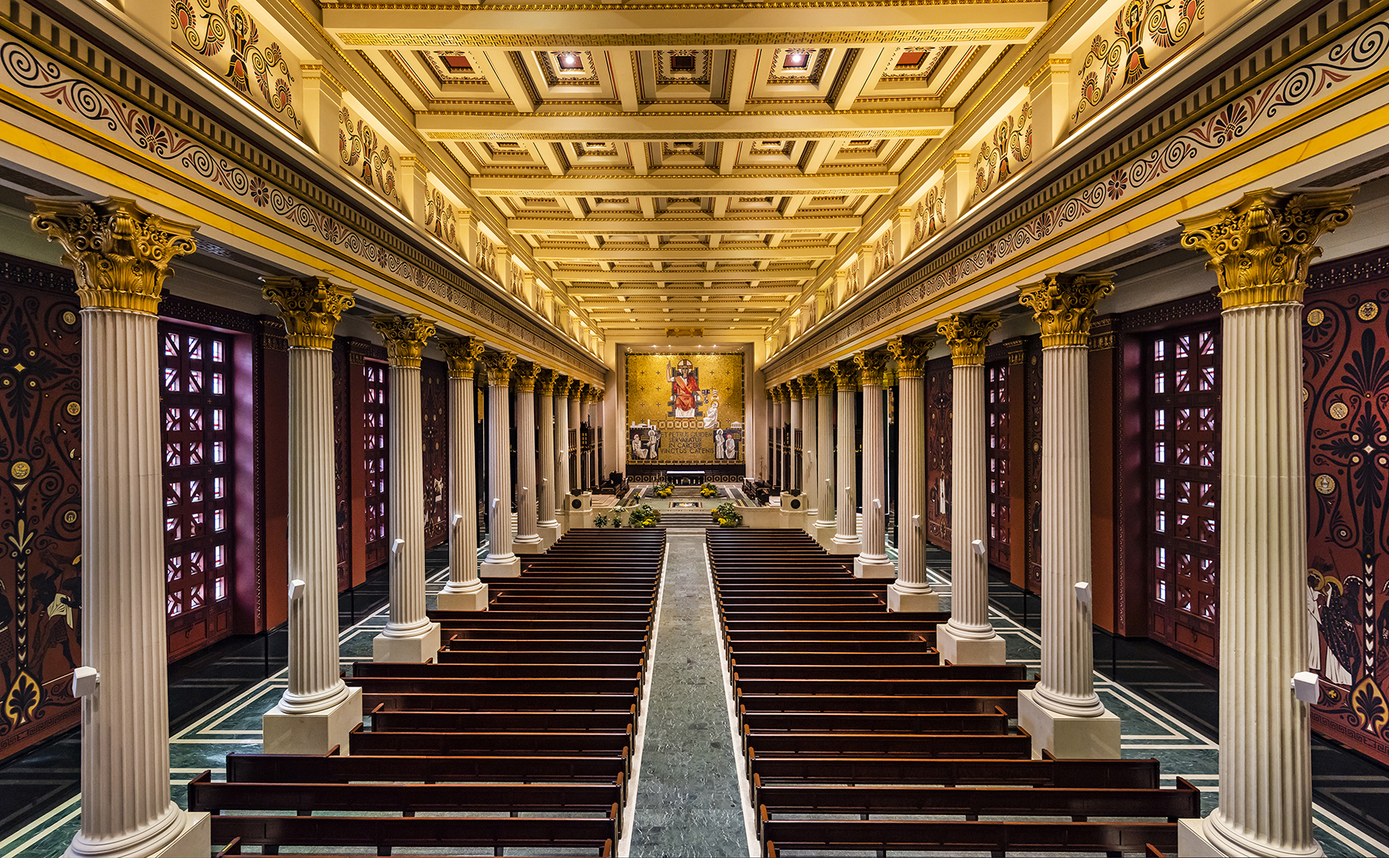
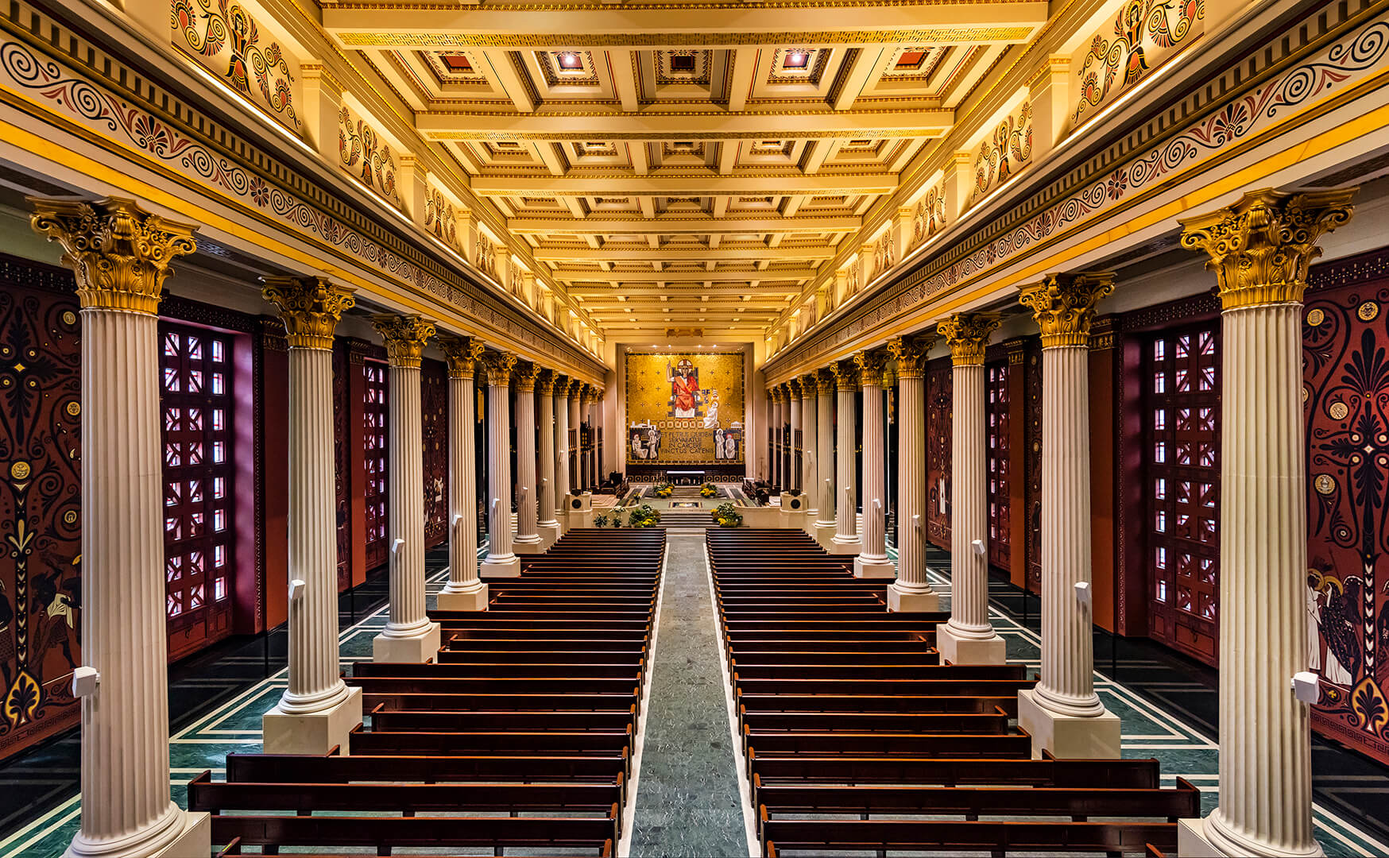
more image compression

diff --git a/index.html b/index.html
@@ -718,7 +718,7 @@ We’d love for you to take a look around to learn more about our wedding day pl
         
         <!-- FOOTER SECTION -->
             <footer>
-            	<div class="image-divider fixed-height" style="background-image:url(images/engagement_photos/Rachel&Andrew_108_wide.jpg);" data-stellar-background-ratio="0.5" >
+            	<div class="image-divider fixed-height" style="background-image:url(images/engagement_photos/rachel&andrew_108_wide_2880.jpg);" data-stellar-background-ratio="0.5" >
                 
                 	<div class="divider-overlay"></div>
                     

diff --git a/galleries/engagement-session/index.html b/galleries/engagement-session/index.html
@@ -780,7 +780,7 @@
         
         <!-- FOOTER SECTION -->
 		<footer>
-            <div class="image-divider fixed-height" style="background-image:url(../../images/engagement_photos/Rachel&Andrew_108_wide.jpg); height:400px;" data-stellar-background-ratio="0.5" >
+            <div class="image-divider fixed-height" style="background-image:url(../../images/engagement_photos/rachel&andrew_108_wide_2880.jpg); height:400px;" data-stellar-background-ratio="0.5" >
                 
                 <div class="divider-overlay" style="opacity:0.1"></div>
                     

diff --git a/galleries/proposal/index.html b/galleries/proposal/index.html
@@ -466,7 +466,7 @@
         
         <!-- FOOTER SECTION -->
 		<footer>
-            <div class="image-divider fixed-height" style="background-image:url(../../images/engagement_photos/Rachel&Andrew_108_wide.jpg); height:400px;" data-stellar-background-ratio="0.5" >
+            <div class="image-divider fixed-height" style="background-image:url(../../images/engagement_photos/rachel&andrew_108_wide_2880.jpg); height:400px;" data-stellar-background-ratio="0.5" >
                 
                 <div class="divider-overlay" style="opacity:0.1"></div>
                     

diff --git a/details/accommodations/index.html b/details/accommodations/index.html
@@ -287,7 +287,7 @@
         
         <!-- FOOTER SECTION -->
 		<footer>
-            <div class="image-divider fixed-height" style="background-image:url(../../images/engagement_photos/Rachel&Andrew_108_wide.jpg); height:400px" data-stellar-background-ratio="0.5" >
+            <div class="image-divider fixed-height" style="background-image:url(../../images/engagement_photos/rachel&andrew_108_wide_2880.jpg); height:400px" data-stellar-background-ratio="0.5" >
                 
                 <div class="divider-overlay"></div>
                     

diff --git a/details/registry/index.html b/details/registry/index.html
@@ -332,7 +332,7 @@
         
         <!-- FOOTER SECTION -->
 		<footer>
-            <div class="image-divider fixed-height" style="background-image:url(../../images/engagement_photos/Rachel&Andrew_108_wide.jpg); height:400px" data-stellar-background-ratio="0.5" >
+            <div class="image-divider fixed-height" style="background-image:url(../../images/engagement_photos/rachel&andrew_108_wide_2880.jpg); height:400px" data-stellar-background-ratio="0.5" >
                 
                 <div class="divider-overlay"></div>
                     

diff --git a/special-people/parents/index.html b/special-people/parents/index.html
@@ -347,7 +347,7 @@
         
        	<!-- FOOTER SECTION -->
 		<footer>
-            <div class="image-divider fixed-height" style="background-image:url(../../images/engagement_photos/Rachel&Andrew_108_wide.jpg); height:400px" data-stellar-background-ratio="0.5" >
+            <div class="image-divider fixed-height" style="background-image:url(../../images/engagement_photos/rachel&andrew_108_wide_2880.jpg); height:400px" data-stellar-background-ratio="0.5" >
                 
                 <div class="divider-overlay"></div>
                     

diff --git a/wedding-party/groomsmen/index.html b/wedding-party/groomsmen/index.html
@@ -590,7 +590,7 @@
         
        	<!-- FOOTER SECTION -->
 		<footer>
-            <div class="image-divider fixed-height" style="background-image:url(../../images/engagement_photos/Rachel&Andrew_108_wide.jpg); height:400px" data-stellar-background-ratio="0.5" >
+            <div class="image-divider fixed-height" style="background-image:url(../../images/engagement_photos/rachel&andrew_108_wide_2880.jpg); height:400px" data-stellar-background-ratio="0.5" >
                 
                 <div class="divider-overlay"></div>
                     
